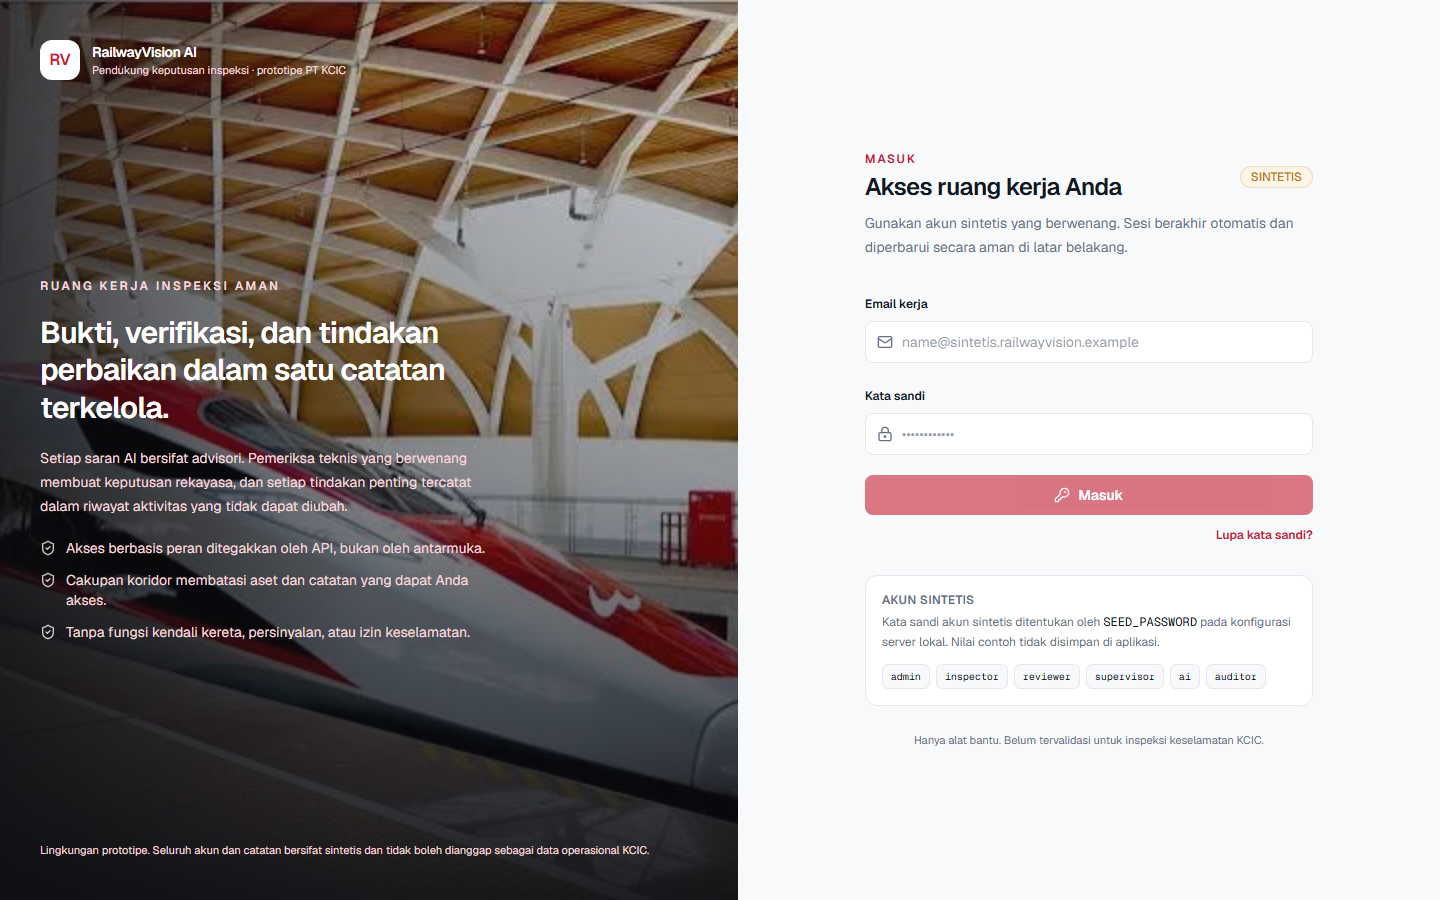
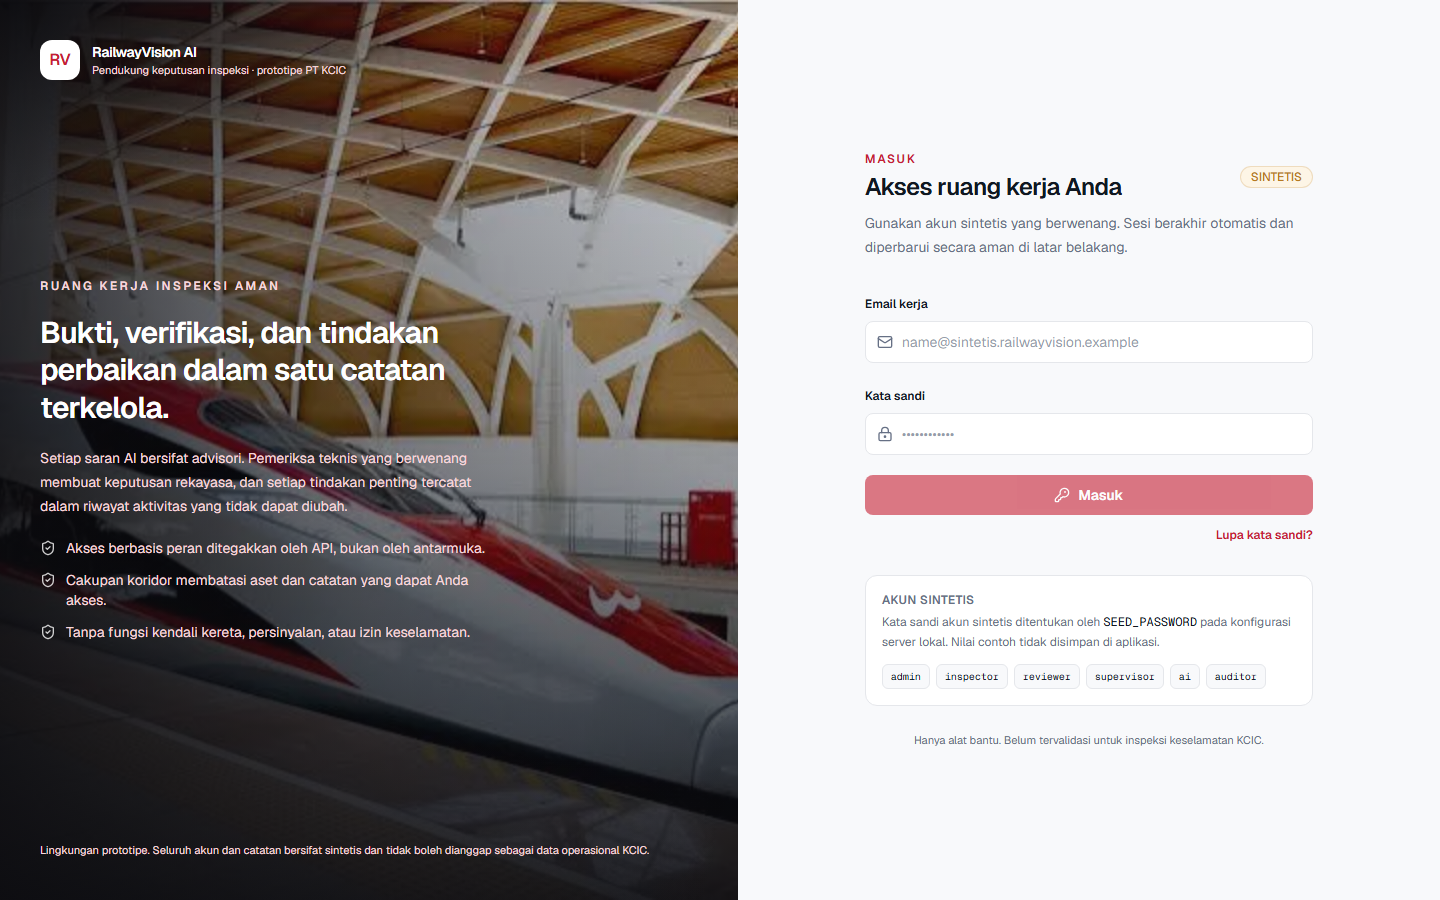
style(web): refine login photo scrims and defer hidden image load
Keep the Halim roof visible with a localized top-left scrim, deepen the
left text scrim, and drop priority so the hidden mobile panel does not
preload the 600 KB photo.

Changed region(s): [[0.0, 0.0, 0.3125, 0.2178]]

diff --git a/apps/web/src/app/login/page.tsx b/apps/web/src/app/login/page.tsx
@@ -79,7 +79,6 @@ export default function LoginPage() {
           src="/login-halim-whoosh.png"
           alt="Kereta cepat Whoosh berhenti di peron Stasiun Halim"
           fill
-          priority
           quality={90}
           sizes="(min-width: 1024px) 51vw, 100vw"
           className="object-cover"
@@ -90,7 +89,15 @@ export default function LoginPage() {
           aria-hidden="true"
         />
         <div
-          className="pointer-events-none absolute inset-0 bg-gradient-to-r from-[#0b0b0f]/70 via-[#0b0b0f]/15 to-transparent"
+          className="pointer-events-none absolute inset-0 bg-gradient-to-r from-[#0b0b0f]/80 via-[#0b0b0f]/25 to-transparent"
+          aria-hidden="true"
+        />
+        <div
+          className="pointer-events-none absolute left-0 top-0 h-56 w-[480px]"
+          style={{
+            backgroundImage:
+              "radial-gradient(ellipse at top left, rgba(11,11,15,0.9), transparent 70%)",
+          }}
           aria-hidden="true"
         />
         <div className="relative flex items-center gap-3">
